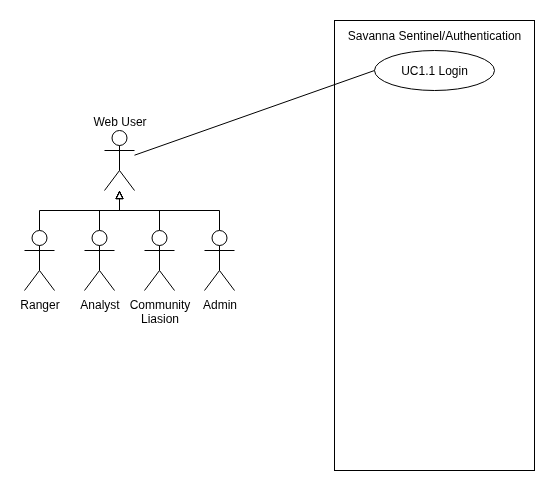
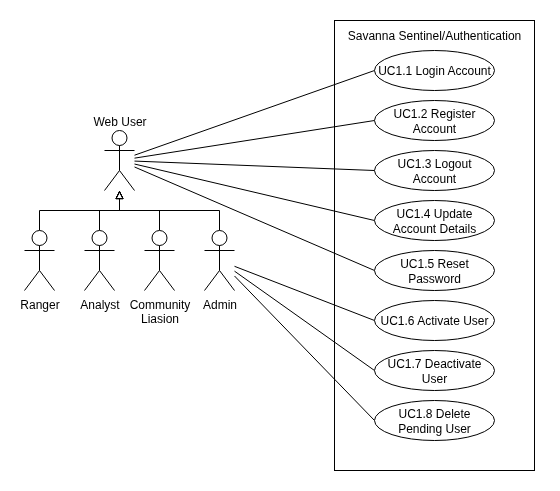
Finished the authorisation subsystem of use cases

diff --git a/docs/drafts/use_case_scopes.md b/docs/drafts/use_case_scopes.md
@@ -15,8 +15,14 @@
 #### Use Case Scope
 | Use Case Number | Starts With/Ends With |
 | --------------- | --------------------- |
-| UC1. Login | TUCBW with the user being shown the login screen upon enterring the website.<br /> TUCEW ends with the user being shown a confirmation message and being redirected to the dashboard. |
-| 
+| UC1.1 Login Account | TUCBW the user being shown the login screen upon enterring the website.<br /> TUCEW the user being shown a confirmation message and being redirected to the dashboard. |
+| UC1.2 Register Account | TUCBW the user clicking the "Register Account" button on the login screen. <br /> TUCEW the user being shown a confirmation message and being told to initiate UC1.1. |
+| UC 1.3 Logout Account | TUCBW the user clicking the Logout button on the navigation burger menu. <br /> TUCEW the user being shown the login screen. |
+| UC 1.4 Update Account Details | TUCBW the user enterring the submission details and clicking the submit button <br /> TUCEW the user being informed their details have been updated. **ALT:** TUCEW the user being redirected to the login screen, only if their password has changed. |
+| UC 1.5 Reset password | TUCBW the user clicking the reset password button on the login screen <br /> TUCEW the user enterring their new password on the magic link and being redirected to login |
+| UC 1.6 Activate User | TUCBW the admin clicking the activate button next to the corresponding pending user <br /> TUCEW the admin being shown a confirmation message, and the user being sent a welcome email. |
+| UC 1.7 Deactivate User | TUCBW the admin clicking the deactivate button next to the corresponding active user <br /> TUCEW the admin being shown a confirmation message, and the user being sent a deactivation email. Important to note the account is not removed from the DB, just access to the service is revoked. |
+| UC 1.8 Delete Pending User | TUCBW the admin clicking the reject button next to the corresponding pending user. <br /> TUCEW with the admin being shown a confirmation message, and the user being sent a rejection email. |
 
 ---
 ## Changelog
@@ -25,4 +31,9 @@
 - Introduced use case Scope
 - Seperated use cases into more distinct subsystems
 - Partioned actors into roles to make the diagram cleaner
+- Removed the following use cases
+  - Refresh Session - No Actor is involved with this use case, it as automated action that the user is unaware of.
+- Updated the following use cases
+  - Reset Password via Email -> Reset Password - Simpler name that does not restrict the method as much, details can be added in other documentation.
+  - Activate / Deactive User -> Split into 2 use cases - These have different outcomes internally
 - Minor improvements
